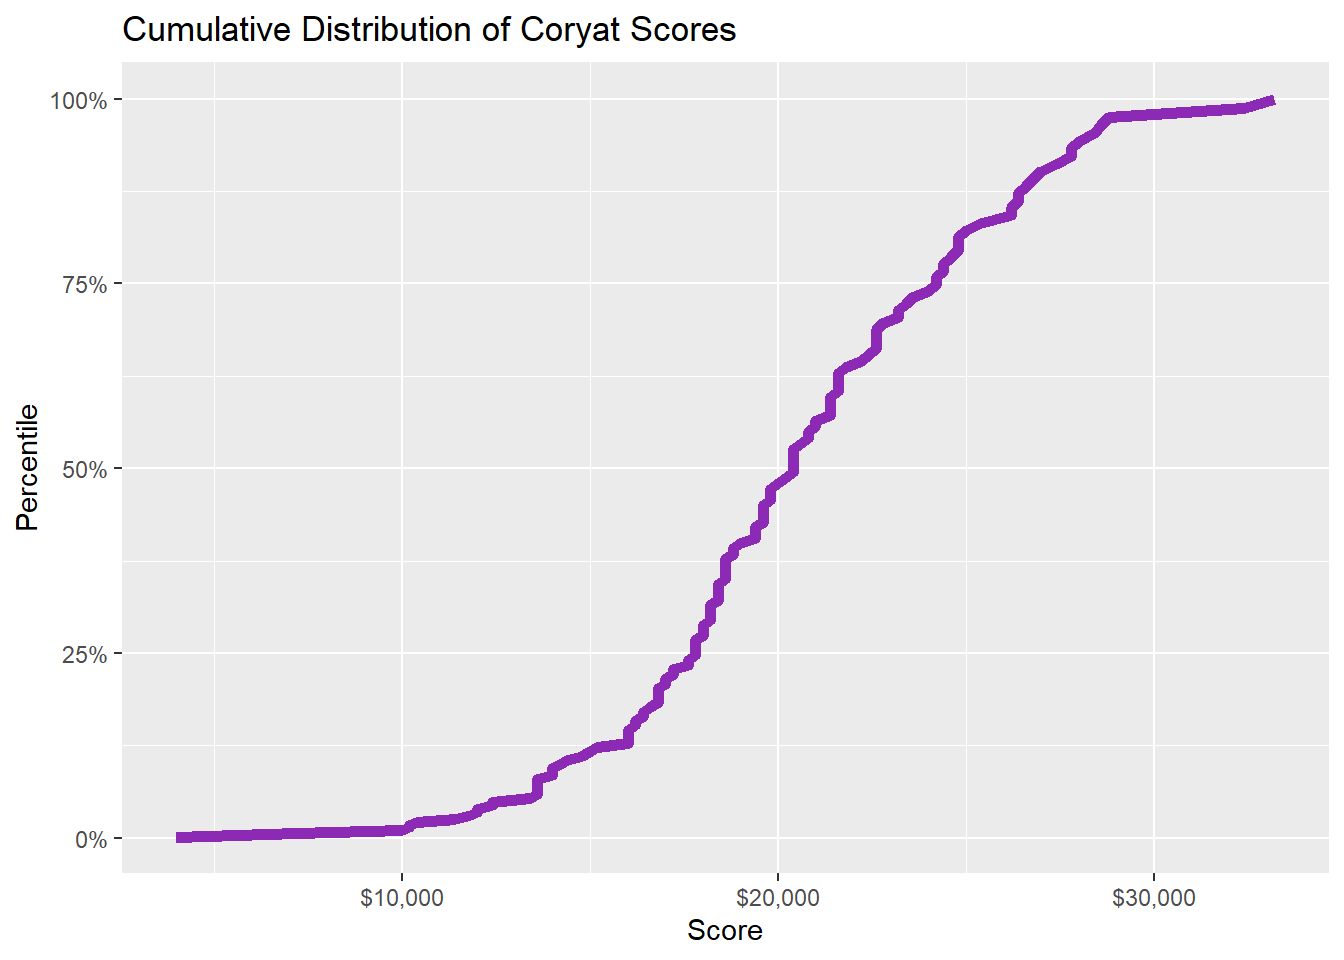
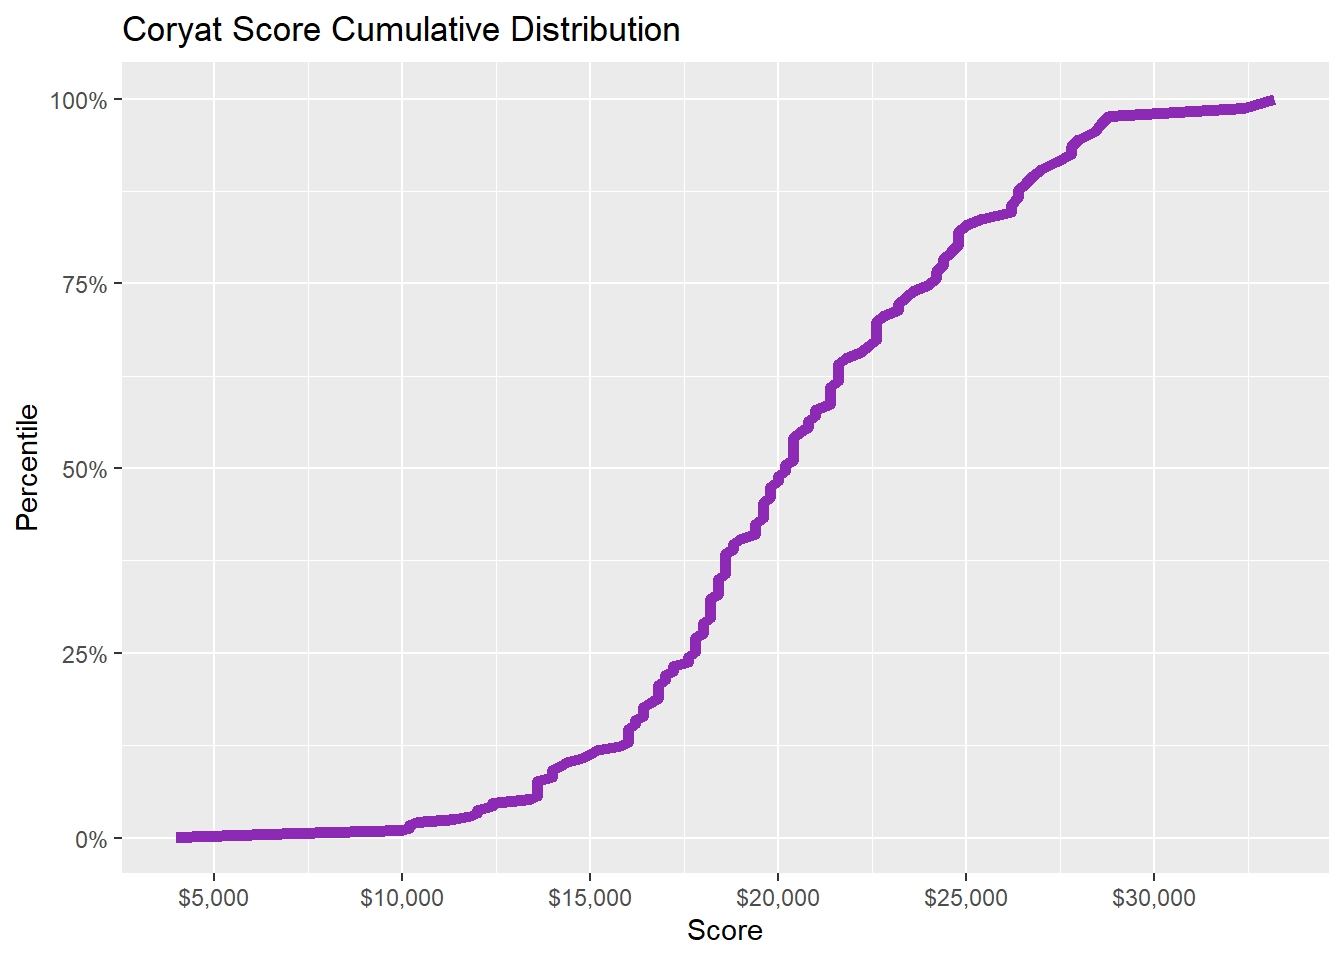
chunk labels, small changes to charts

diff --git a/posts/wordle_scores/wordle_scores.html b/posts/wordle_scores/wordle_scores.html
@@ -175,64 +175,50 @@ pre > code.sourceCode > span > a:first-child::before { text-decoration: underlin
 <h2 class="anchored" data-anchor-id="introduction">Introduction</h2>
 <p>Unless you spent 2022 on the moon, you’ve heard of <a href="https://www.nytimes.com/games/wordle/index.html">Wordle</a>. Here I present the results of my word-guessery.</p>
 </section>
+<section id="reading-the-data" class="level2">
+<h2 class="anchored" data-anchor-id="reading-the-data">Reading the Data</h2>
+<div class="cell">
+<details>
+<summary>Code</summary>
+<div class="sourceCode cell-code" id="cb1"><pre class="sourceCode r code-with-copy"><code class="sourceCode r"><span id="cb1-1"><a href="#cb1-1" aria-hidden="true" tabindex="-1"></a><span class="fu">read_csv</span>(<span class="st">"wordle_scores.csv"</span>) <span class="ot">-&gt;</span></span>
+<span id="cb1-2"><a href="#cb1-2" aria-hidden="true" tabindex="-1"></a>  wordle_scores</span></code><button title="Copy to Clipboard" class="code-copy-button"><i class="bi"></i></button></pre></div>
+</details>
+</div>
+</section>
+<section id="average-score" class="level2">
+<h2 class="anchored" data-anchor-id="average-score">Average Score</h2>
+</section>
 <section id="visualizing-wordle-scores" class="level2">
 <h2 class="anchored" data-anchor-id="visualizing-wordle-scores">Visualizing Wordle Scores</h2>
-<div class="tabset-margin-container"></div><div class="panel-tabset">
-<ul class="nav nav-tabs" role="tablist"><li class="nav-item" role="presentation"><a class="nav-link active" id="tabset-1-1-tab" data-bs-toggle="tab" data-bs-target="#tabset-1-1" role="tab" aria-controls="tabset-1-1" aria-selected="true">Histogram</a></li><li class="nav-item" role="presentation"><a class="nav-link" id="tabset-1-2-tab" data-bs-toggle="tab" data-bs-target="#tabset-1-2" role="tab" aria-controls="tabset-1-2" aria-selected="false">Line Chart</a></li></ul>
-<div class="tab-content">
-<div id="tabset-1-1" class="tab-pane active" role="tabpanel" aria-labelledby="tabset-1-1-tab">
+<section id="line-chart-with-marginal-histogram" class="level3">
+<h3 class="anchored" data-anchor-id="line-chart-with-marginal-histogram">Line Chart with Marginal Histogram</h3>
 <div class="cell">
 <details>
 <summary>Code</summary>
-<div class="sourceCode cell-code" id="cb1"><pre class="sourceCode r code-with-copy"><code class="sourceCode r"><span id="cb1-1"><a href="#cb1-1" aria-hidden="true" tabindex="-1"></a><span class="fu">read_csv</span>(<span class="st">"wordle_scores.csv"</span>) <span class="sc">|&gt;</span></span>
-<span id="cb1-2"><a href="#cb1-2" aria-hidden="true" tabindex="-1"></a>  <span class="fu">ggplot</span>(<span class="fu">aes</span>(<span class="at">x =</span> score)) <span class="sc">+</span></span>
-<span id="cb1-3"><a href="#cb1-3" aria-hidden="true" tabindex="-1"></a>  <span class="fu">geom_bar</span>(<span class="at">color =</span> <span class="st">"black"</span>, <span class="at">fill =</span> <span class="st">"#EBEBEB"</span>) <span class="sc">+</span></span>
-<span id="cb1-4"><a href="#cb1-4" aria-hidden="true" tabindex="-1"></a>  <span class="fu">geom_text</span>(<span class="fu">aes</span>(<span class="at">label =</span> <span class="fu">paste0</span>(<span class="fu">round</span>(<span class="dv">100</span><span class="sc">*</span>(..count..)<span class="sc">/</span><span class="fu">sum</span>(..count..)), <span class="st">"%"</span>)), </span>
-<span id="cb1-5"><a href="#cb1-5" aria-hidden="true" tabindex="-1"></a>            <span class="at">stat =</span> <span class="st">"count"</span>, </span>
-<span id="cb1-6"><a href="#cb1-6" aria-hidden="true" tabindex="-1"></a>            <span class="at">vjust =</span> <span class="fl">1.25</span>) <span class="sc">+</span></span>
-<span id="cb1-7"><a href="#cb1-7" aria-hidden="true" tabindex="-1"></a>  <span class="fu">scale_x_continuous</span>(<span class="at">limits =</span> <span class="fu">c</span>(<span class="fl">0.5</span>,<span class="fl">7.5</span>), <span class="at">breaks =</span> <span class="dv">1</span><span class="sc">:</span><span class="dv">7</span>, <span class="at">labels =</span> <span class="fu">c</span>(<span class="dv">1</span><span class="sc">:</span><span class="dv">6</span>, <span class="st">"≥7"</span>)) <span class="sc">+</span></span>
-<span id="cb1-8"><a href="#cb1-8" aria-hidden="true" tabindex="-1"></a>  <span class="fu">labs</span>(<span class="at">title =</span> <span class="st">"Distribution of Wordle Scores"</span>, <span class="at">x =</span> <span class="st">"Score"</span>, <span class="at">y =</span> <span class="st">"Count"</span>) <span class="sc">+</span>   </span>
-<span id="cb1-9"><a href="#cb1-9" aria-hidden="true" tabindex="-1"></a>  <span class="fu">theme_clean</span>()</span></code><button title="Copy to Clipboard" class="code-copy-button"><i class="bi"></i></button></pre></div>
-</details>
-<div class="cell-output-display">
-<div class="quarto-figure quarto-figure-center">
-<figure class="figure">
-<p><a href="wordle_scores_files/figure-html/unnamed-chunk-3-1.png" class="lightbox" data-gallery="quarto-lightbox-gallery-1"><img src="wordle_scores_files/figure-html/unnamed-chunk-3-1.png" class="img-fluid figure-img" width="672"></a></p>
-</figure>
-</div>
-</div>
-</div>
-</div>
-<div id="tabset-1-2" class="tab-pane" role="tabpanel" aria-labelledby="tabset-1-2-tab">
-<div class="cell">
-<details>
-<summary>Code</summary>
-<div class="sourceCode cell-code" id="cb2"><pre class="sourceCode r code-with-copy"><code class="sourceCode r"><span id="cb2-1"><a href="#cb2-1" aria-hidden="true" tabindex="-1"></a><span class="fu">read_csv</span>(<span class="st">"wordle_scores.csv"</span>) <span class="sc">|&gt;</span></span>
+<div class="sourceCode cell-code" id="cb2"><pre class="sourceCode r code-with-copy"><code class="sourceCode r"><span id="cb2-1"><a href="#cb2-1" aria-hidden="true" tabindex="-1"></a>(wordle_scores <span class="sc">|&gt;</span></span>
 <span id="cb2-2"><a href="#cb2-2" aria-hidden="true" tabindex="-1"></a>  <span class="fu">ggplot</span>(<span class="fu">aes</span>(<span class="at">x =</span> puzzle, <span class="at">y =</span> score)) <span class="sc">+</span></span>
 <span id="cb2-3"><a href="#cb2-3" aria-hidden="true" tabindex="-1"></a>  <span class="fu">geom_point</span>(<span class="at">shape =</span> <span class="dv">21</span>, <span class="at">fill =</span> <span class="st">"#EBEBEB"</span>) <span class="sc">+</span></span>
 <span id="cb2-4"><a href="#cb2-4" aria-hidden="true" tabindex="-1"></a>  <span class="fu">geom_smooth</span>() <span class="sc">+</span></span>
-<span id="cb2-5"><a href="#cb2-5" aria-hidden="true" tabindex="-1"></a>  <span class="fu">scale_y_continuous</span>(<span class="at">limits =</span> <span class="fu">c</span>(<span class="dv">1</span>, <span class="dv">7</span>), <span class="at">breaks =</span> <span class="dv">1</span><span class="sc">:</span><span class="dv">7</span>, <span class="at">labels =</span> <span class="fu">c</span>(<span class="dv">1</span><span class="sc">:</span><span class="dv">6</span>, <span class="st">"≥7"</span>)) <span class="sc">+</span></span>
-<span id="cb2-6"><a href="#cb2-6" aria-hidden="true" tabindex="-1"></a>  <span class="fu">labs</span>(<span class="at">title =</span> <span class="st">"Wordle Scores Over Time"</span>, </span>
+<span id="cb2-5"><a href="#cb2-5" aria-hidden="true" tabindex="-1"></a>  <span class="fu">scale_y_continuous</span>(<span class="at">limits =</span> <span class="fu">c</span>(<span class="fl">0.5</span>, <span class="fl">7.5</span>), <span class="at">breaks =</span> <span class="dv">1</span><span class="sc">:</span><span class="dv">7</span>, <span class="at">labels =</span> <span class="fu">c</span>(<span class="dv">1</span><span class="sc">:</span><span class="dv">6</span>, <span class="st">"≥7"</span>)) <span class="sc">+</span></span>
+<span id="cb2-6"><a href="#cb2-6" aria-hidden="true" tabindex="-1"></a>  <span class="fu">labs</span>(<span class="at">title =</span> <span class="st">"Wordle Score Trend and Histogram"</span>, </span>
 <span id="cb2-7"><a href="#cb2-7" aria-hidden="true" tabindex="-1"></a>       <span class="at">x =</span> <span class="st">"Puzzle Number"</span>, </span>
 <span id="cb2-8"><a href="#cb2-8" aria-hidden="true" tabindex="-1"></a>       <span class="at">y =</span> <span class="st">"Score"</span>,</span>
 <span id="cb2-9"><a href="#cb2-9" aria-hidden="true" tabindex="-1"></a>       <span class="at">caption =</span> <span class="fu">paste0</span>(<span class="st">"My average score: "</span>, </span>
 <span id="cb2-10"><a href="#cb2-10" aria-hidden="true" tabindex="-1"></a>                        <span class="fu">round</span>(mean_score, <span class="dv">2</span>) ,</span>
 <span id="cb2-11"><a href="#cb2-11" aria-hidden="true" tabindex="-1"></a>                        <span class="st">"</span><span class="sc">\n</span><span class="st">Average score with optimal play: 3.42"</span>)) <span class="sc">+</span></span>
 <span id="cb2-12"><a href="#cb2-12" aria-hidden="true" tabindex="-1"></a>  <span class="fu">geom_hline</span>(<span class="at">yintercept =</span> mean_score, <span class="at">linetype =</span> <span class="st">"dashed"</span>) <span class="sc">+</span> </span>
-<span id="cb2-13"><a href="#cb2-13" aria-hidden="true" tabindex="-1"></a>  <span class="fu">geom_hline</span>(<span class="at">yintercept =</span> <span class="fl">3.4201</span>, <span class="at">linetype =</span> <span class="st">"dotted"</span>) <span class="sc">+</span></span>
-<span id="cb2-14"><a href="#cb2-14" aria-hidden="true" tabindex="-1"></a>  <span class="fu">theme_clean</span>()</span></code><button title="Copy to Clipboard" class="code-copy-button"><i class="bi"></i></button></pre></div>
+<span id="cb2-13"><a href="#cb2-13" aria-hidden="true" tabindex="-1"></a>  <span class="fu">geom_hline</span>(<span class="at">yintercept =</span> <span class="fl">3.4201</span>, <span class="at">linetype =</span> <span class="st">"dotted"</span>)) <span class="sc">|&gt;</span></span>
+<span id="cb2-14"><a href="#cb2-14" aria-hidden="true" tabindex="-1"></a>  <span class="fu">ggMarginal</span>(<span class="at">type =</span> <span class="st">"histogram"</span>, <span class="at">margins =</span> <span class="st">"y"</span>, <span class="at">yparams =</span> <span class="fu">list</span>(<span class="at">bins =</span> <span class="dv">7</span>, <span class="at">center =</span> <span class="dv">0</span>, <span class="at">binwidth =</span> <span class="dv">1</span>, <span class="at">fill =</span> <span class="st">"#EBEBEB"</span>))</span></code><button title="Copy to Clipboard" class="code-copy-button"><i class="bi"></i></button></pre></div>
 </details>
 <div class="cell-output-display">
 <div class="quarto-figure quarto-figure-center">
 <figure class="figure">
-<p><a href="wordle_scores_files/figure-html/unnamed-chunk-4-1.png" class="lightbox" data-gallery="quarto-lightbox-gallery-2"><img src="wordle_scores_files/figure-html/unnamed-chunk-4-1.png" class="img-fluid figure-img" width="672"></a></p>
+<p><a href="wordle_scores_files/figure-html/line-chart-histogram-1.png" class="lightbox" data-gallery="quarto-lightbox-gallery-1"><img src="wordle_scores_files/figure-html/line-chart-histogram-1.png" class="img-fluid figure-img" width="672"></a></p>
 </figure>
 </div>
 </div>
 </div>
-</div>
-</div>
-</div>
+</section>
 </section>
 <section id="references" class="level2">
 <h2 class="anchored" data-anchor-id="references">References</h2>
@@ -593,7 +579,7 @@ window.document.addEventListener("DOMContentLoaded", function (event) {
 });
 </script>
 </div> <!-- /content -->
-<script>var lightboxQuarto = GLightbox({"closeEffect":"zoom","selector":".lightbox","openEffect":"zoom","loop":true,"descPosition":"bottom"});</script>
+<script>var lightboxQuarto = GLightbox({"descPosition":"bottom","selector":".lightbox","closeEffect":"zoom","loop":true,"openEffect":"zoom"});</script>
 
 
 

diff --git a/posts/coryat_scores/coryat_scores.html b/posts/coryat_scores/coryat_scores.html
@@ -216,9 +216,10 @@ pre > code.sourceCode > span > a:first-child::before { text-decoration: underlin
 <h2 class="anchored" data-anchor-id="average-score">Average Score</h2>
 <p>An average score of around $25,000 is considered appropriate for prospective contestants.</p>
 <div class="cell" data-layout-align="center">
-<div class="sourceCode cell-code" id="cb2"><pre class="sourceCode r code-with-copy"><code class="sourceCode r"><span id="cb2-1"><a href="#cb2-1" aria-hidden="true" tabindex="-1"></a>coryat_scores <span class="sc">|&gt;</span> <span class="fu">pull</span>(score) <span class="sc">|&gt;</span> <span class="fu">mean</span>() <span class="sc">|&gt;</span> <span class="fu">round</span>()</span></code><button title="Copy to Clipboard" class="code-copy-button"><i class="bi"></i></button></pre></div>
+<div class="sourceCode cell-code" id="cb2"><pre class="sourceCode r code-with-copy"><code class="sourceCode r"><span id="cb2-1"><a href="#cb2-1" aria-hidden="true" tabindex="-1"></a><span class="co"># calculate my mean score</span></span>
+<span id="cb2-2"><a href="#cb2-2" aria-hidden="true" tabindex="-1"></a>coryat_scores <span class="sc">|&gt;</span> <span class="fu">pull</span>(score) <span class="sc">|&gt;</span> <span class="fu">mean</span>() <span class="sc">|&gt;</span> <span class="fu">round</span>()</span></code><button title="Copy to Clipboard" class="code-copy-button"><i class="bi"></i></button></pre></div>
 <div class="cell-output cell-output-stdout">
-<pre><code>[1] 19351</code></pre>
+<pre><code>[1] 19308</code></pre>
 </div>
 </div>
 <p>Clearly, I have some studying to do before I consider trying to compete on the show.</p>
@@ -237,9 +238,9 @@ pre > code.sourceCode > span > a:first-child::before { text-decoration: underlin
 <span id="cb4-2"><a href="#cb4-2" aria-hidden="true" tabindex="-1"></a>  <span class="fu">arrange</span>(score) <span class="sc">|&gt;</span></span>
 <span id="cb4-3"><a href="#cb4-3" aria-hidden="true" tabindex="-1"></a>  <span class="fu">ggplot</span>(<span class="fu">aes</span>(<span class="at">x =</span> score, <span class="at">y =</span> <span class="fu">cumsum</span>(score)<span class="sc">/</span><span class="fu">sum</span>(score))) <span class="sc">+</span></span>
 <span id="cb4-4"><a href="#cb4-4" aria-hidden="true" tabindex="-1"></a>  <span class="fu">geom_line</span>(<span class="at">color =</span> <span class="st">"#8D2AB5"</span>, <span class="at">size =</span> <span class="dv">2</span>) <span class="sc">+</span></span>
-<span id="cb4-5"><a href="#cb4-5" aria-hidden="true" tabindex="-1"></a>  <span class="fu">scale_x_continuous</span>(<span class="at">labels =</span> scales<span class="sc">::</span><span class="fu">label_dollar</span>()) <span class="sc">+</span></span>
+<span id="cb4-5"><a href="#cb4-5" aria-hidden="true" tabindex="-1"></a>  <span class="fu">scale_x_continuous</span>(<span class="at">labels =</span> scales<span class="sc">::</span><span class="fu">label_dollar</span>(), <span class="at">n.breaks =</span> <span class="dv">6</span>) <span class="sc">+</span></span>
 <span id="cb4-6"><a href="#cb4-6" aria-hidden="true" tabindex="-1"></a>  <span class="fu">scale_y_continuous</span>(<span class="at">labels =</span> scales<span class="sc">::</span><span class="fu">label_percent</span>()) <span class="sc">+</span></span>
-<span id="cb4-7"><a href="#cb4-7" aria-hidden="true" tabindex="-1"></a>  <span class="fu">labs</span>(<span class="at">title =</span> <span class="st">"Cumulative Distribution of Coryat Scores"</span>, </span>
+<span id="cb4-7"><a href="#cb4-7" aria-hidden="true" tabindex="-1"></a>  <span class="fu">labs</span>(<span class="at">title =</span> <span class="st">"Coryat Score Cumulative Distribution"</span>, </span>
 <span id="cb4-8"><a href="#cb4-8" aria-hidden="true" tabindex="-1"></a>       <span class="at">x =</span> <span class="st">"Score"</span>, </span>
 <span id="cb4-9"><a href="#cb4-9" aria-hidden="true" tabindex="-1"></a>       <span class="at">y =</span> <span class="st">"Percentile"</span>)</span></code><button title="Copy to Clipboard" class="code-copy-button"><i class="bi"></i></button></pre></div>
 </details>
@@ -261,9 +262,9 @@ pre > code.sourceCode > span > a:first-child::before { text-decoration: underlin
 <span id="cb5-3"><a href="#cb5-3" aria-hidden="true" tabindex="-1"></a>  <span class="fu">geom_point</span>(<span class="at">colour =</span> <span class="st">"#8D2AB5"</span>) <span class="sc">+</span></span>
 <span id="cb5-4"><a href="#cb5-4" aria-hidden="true" tabindex="-1"></a>  <span class="fu">geom_line</span>(<span class="at">colour =</span> <span class="st">"#8D2AB5"</span>, <span class="at">linetype =</span> <span class="st">"dotted"</span>) <span class="sc">+</span></span>
 <span id="cb5-5"><a href="#cb5-5" aria-hidden="true" tabindex="-1"></a>  <span class="fu">ylim</span>(<span class="dv">0</span>, <span class="dv">30000</span>) <span class="sc">+</span></span>
-<span id="cb5-6"><a href="#cb5-6" aria-hidden="true" tabindex="-1"></a>  <span class="fu">scale_y_continuous</span>(<span class="at">labels=</span>scales<span class="sc">::</span><span class="fu">label_dollar</span>()) <span class="sc">+</span></span>
+<span id="cb5-6"><a href="#cb5-6" aria-hidden="true" tabindex="-1"></a>  <span class="fu">scale_y_continuous</span>(<span class="at">labels=</span>scales<span class="sc">::</span><span class="fu">label_dollar</span>(), <span class="at">n.breaks =</span> <span class="dv">6</span>) <span class="sc">+</span></span>
 <span id="cb5-7"><a href="#cb5-7" aria-hidden="true" tabindex="-1"></a>  <span class="fu">stat_smooth</span>(<span class="at">colour =</span> <span class="st">"magenta"</span>, <span class="at">linetype =</span> <span class="st">"dashed"</span>) <span class="sc">+</span></span>
-<span id="cb5-8"><a href="#cb5-8" aria-hidden="true" tabindex="-1"></a>  <span class="fu">labs</span>(<span class="at">title =</span> <span class="st">"Coryat Score Trend"</span>, <span class="at">x =</span> <span class="st">"Game"</span>, <span class="at">y =</span> <span class="st">"Score"</span>)) <span class="sc">|&gt;</span></span>
+<span id="cb5-8"><a href="#cb5-8" aria-hidden="true" tabindex="-1"></a>  <span class="fu">labs</span>(<span class="at">title =</span> <span class="st">"Coryat Score Trend and Histogram"</span>, <span class="at">x =</span> <span class="st">"Game"</span>, <span class="at">y =</span> <span class="st">"Score"</span>)) <span class="sc">|&gt;</span></span>
 <span id="cb5-9"><a href="#cb5-9" aria-hidden="true" tabindex="-1"></a>  <span class="fu">ggMarginal</span>(<span class="at">type =</span> <span class="st">"histogram"</span>, <span class="at">margins =</span> <span class="st">"y"</span>, <span class="at">fill =</span> <span class="st">"#8D2AB5"</span>)</span></code><button title="Copy to Clipboard" class="code-copy-button"><i class="bi"></i></button></pre></div>
 </details>
 <div class="cell-output-display">
@@ -640,7 +641,7 @@ window.document.addEventListener("DOMContentLoaded", function (event) {
 });
 </script>
 </div> <!-- /content -->
-<script>var lightboxQuarto = GLightbox({"closeEffect":"zoom","selector":".lightbox","loop":true,"descPosition":"bottom","openEffect":"zoom"});</script>
+<script>var lightboxQuarto = GLightbox({"openEffect":"zoom","descPosition":"bottom","loop":true,"selector":".lightbox","closeEffect":"zoom"});</script>
 
 
 

diff --git a/links.html b/links.html
@@ -199,6 +199,7 @@ ul.task-list li input[type="checkbox"] {
 <li><a href="https://www.johndcook.com/blog/2023/04/23/confidence-interval/">Can you have confidence in a confidence interval?</a></li>
 <li><a href="https://arelbundock.com/posts/acmq_en_06_dag/">Directed Acyclic Graphs</a></li>
 <li><a href="http://freerangestats.info/blog/2023/06/04/causality-sims">Simulating confounders, colliders and mediators</a></li>
+<li><a href="https://vdl.sci.utah.edu/blog/2023/04/17/misleading/">How People Actually Lie With Charts</a></li>
 </ul>
 </section>
 <section id="games" class="level1">
@@ -242,6 +243,7 @@ ul.task-list li input[type="checkbox"] {
 <li><a href="https://goodreason.substack.com/p/maybe-treating-housing-as-an-investment">Maybe Treating Housing as an Investment was a Colossal, Society-Shattering Mistake</a></li>
 <li><a href="https://www.atlasofplaces.com/essays/on-the-phenomenon-of-bullshit-jobs/">On the Phenomenon of Bullshit Jobs</a></li>
 <li><a href="https://www.youtube.com/watch?v=YQ_xWvX1n9g">Line Goes Up – The Problem With NFTs</a></li>
+<li><a href="http://www.jdawiseman.com/books/pricing-money/Pricing_Money_JDAWiseman.html">Pricing Money</a></li>
 </ul>
 </section>
 <section id="music" class="level1">
@@ -285,6 +287,7 @@ ul.task-list li input[type="checkbox"] {
 <li><a href="https://www.madisontaskett.com/lazy-bastard-productivity/">How a Lazy Bitch like me learned to be Productive</a></li>
 <li><a href="https://paulitaylor.com/2022/05/06/the-case-against-collaboration/">The Case Against Collaboration</a></li>
 <li><a href="https://borretti.me/article/effective-spaced-repetition#bidirectionality">Effective Spaced Repetition</a></li>
+<li><a href="https://github.com/readme/guides/finish-your-projects">Finish your projects</a></li>
 </ul>
 </section>
 <section id="psychology" class="level1">
@@ -316,6 +319,7 @@ ul.task-list li input[type="checkbox"] {
 <li><a href="https://ipfs.io/ipfs/bafybeid7lt7snuzcvcmfqs5a5hlc5fmk3xmflz4hx2qa7c674vm3rpsdvm/why-we-should-have-markdown-rendered-websites.html">Why We Should Have Markdown Rendered Websites</a></li>
 <li><a href="http://www.incompleteideas.net/IncIdeas/BitterLesson.html">The Bitter Lesson</a></li>
 <li><a href="https://www.nytimes.com/2023/03/08/opinion/noam-chomsky-chatgpt-ai.html">The False Promise of ChatGPT</a></li>
+<li><a href="https://ploum.net/2023-06-19-more-rms.html">We need more of Richard Stallman, not less</a></li>
 </ul>
 
 

diff --git a/posts.html b/posts.html
@@ -170,7 +170,7 @@ May 3, 2023
 </a>
 </div>
 </div>
-<div class="quarto-post image-right" data-index="1" data-listing-date-sort="1680235200000" data-listing-file-modified-sort="1686504397196" data-listing-date-modified-sort="NaN" data-listing-reading-time-sort="2">
+<div class="quarto-post image-right" data-index="1" data-listing-date-sort="1680235200000" data-listing-file-modified-sort="1687401135851" data-listing-date-modified-sort="NaN" data-listing-reading-time-sort="2">
 <div class="thumbnail">
 <p><a href="./posts/wordle_scores/wordle_scores.html"> <img src="./posts/wordle_scores/wordle_scores.png" class="thumbnail-image"> </a></p>
 </div>
@@ -220,7 +220,7 @@ Feb 4, 2023
 </a>
 </div>
 </div>
-<div class="quarto-post image-right" data-index="3" data-listing-date-sort="1672635600000" data-listing-file-modified-sort="1686494437078" data-listing-date-modified-sort="NaN" data-listing-reading-time-sort="2">
+<div class="quarto-post image-right" data-index="3" data-listing-date-sort="1672635600000" data-listing-file-modified-sort="1687401234546" data-listing-date-modified-sort="NaN" data-listing-reading-time-sort="2">
 <div class="thumbnail">
 <p><a href="./posts/crossword_times/crossword_times.html"> <img src="./posts/crossword_times/crossword_times.jpg" class="thumbnail-image"> </a></p>
 </div>
@@ -245,7 +245,7 @@ Jan 2, 2023
 </a>
 </div>
 </div>
-<div class="quarto-post image-right" data-index="4" data-listing-date-sort="1665979200000" data-listing-file-modified-sort="1686778337222" data-listing-date-modified-sort="NaN" data-listing-reading-time-sort="4">
+<div class="quarto-post image-right" data-index="4" data-listing-date-sort="1665979200000" data-listing-file-modified-sort="1687401131283" data-listing-date-modified-sort="NaN" data-listing-reading-time-sort="4">
 <div class="thumbnail">
 <p><a href="./posts/coryat_scores/coryat_scores.html"> <img src="./posts/coryat_scores/coryat_scores.jpg" class="thumbnail-image"> </a></p>
 </div>

diff --git a/posts/crossword_times/crossword_times.html b/posts/crossword_times/crossword_times.html
@@ -215,7 +215,7 @@ pre > code.sourceCode > span > a:first-child::before { text-decoration: underlin
 <div class="cell-output-display">
 <div class="quarto-figure quarto-figure-center">
 <figure class="figure">
-<p><a href="crossword_times_files/figure-html/unnamed-chunk-1-1.png" class="lightbox" data-gallery="quarto-lightbox-gallery-1"><img src="crossword_times_files/figure-html/unnamed-chunk-1-1.png" class="img-fluid figure-img" width="672"></a></p>
+<p><a href="crossword_times_files/figure-html/scatterplot-1.png" class="lightbox" data-gallery="quarto-lightbox-gallery-1"><img src="crossword_times_files/figure-html/scatterplot-1.png" class="img-fluid figure-img" width="672"></a></p>
 </figure>
 </div>
 </div>
@@ -231,7 +231,7 @@ pre > code.sourceCode > span > a:first-child::before { text-decoration: underlin
 <div class="cell-output-display">
 <div class="quarto-figure quarto-figure-center">
 <figure class="figure">
-<p><a href="crossword_times_files/figure-html/unnamed-chunk-2-1.png" class="lightbox" data-gallery="quarto-lightbox-gallery-2"><img src="crossword_times_files/figure-html/unnamed-chunk-2-1.png" class="img-fluid figure-img" width="672"></a></p>
+<p><a href="crossword_times_files/figure-html/boxplots-1.png" class="lightbox" data-gallery="quarto-lightbox-gallery-2"><img src="crossword_times_files/figure-html/boxplots-1.png" class="img-fluid figure-img" width="672"></a></p>
 </figure>
 </div>
 </div>
@@ -600,7 +600,7 @@ window.document.addEventListener("DOMContentLoaded", function (event) {
 });
 </script>
 </div> <!-- /content -->
-<script>var lightboxQuarto = GLightbox({"descPosition":"bottom","closeEffect":"zoom","loop":true,"selector":".lightbox","openEffect":"zoom"});</script>
+<script>var lightboxQuarto = GLightbox({"closeEffect":"zoom","selector":".lightbox","openEffect":"zoom","descPosition":"bottom","loop":true});</script>
 
 
 
